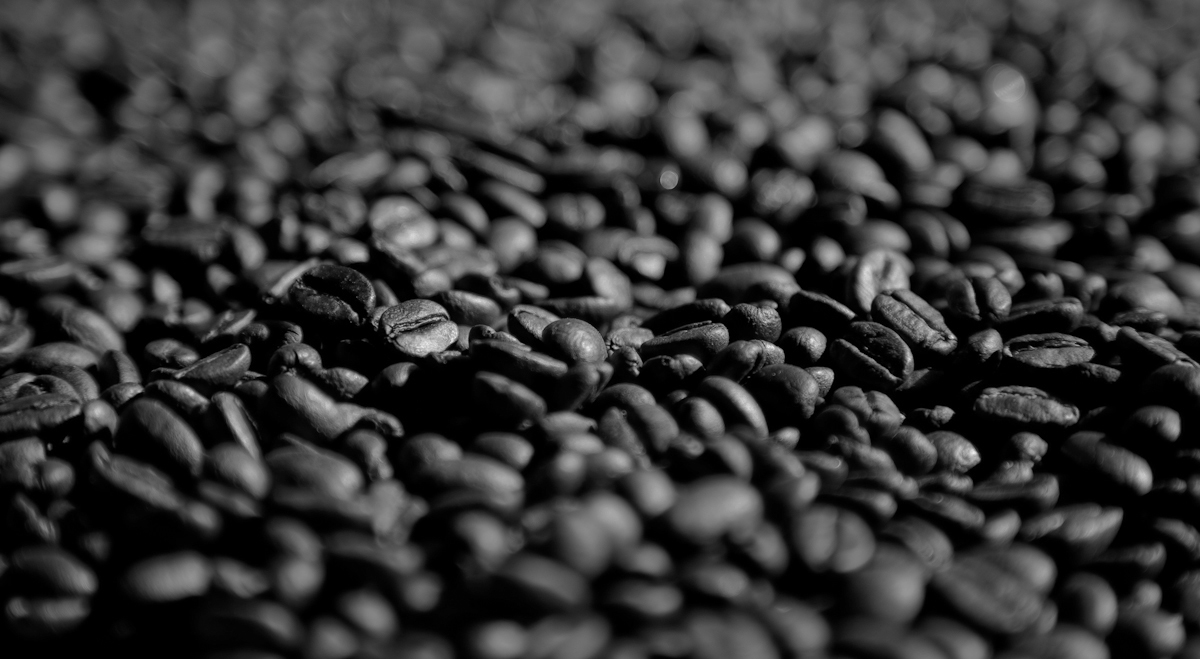
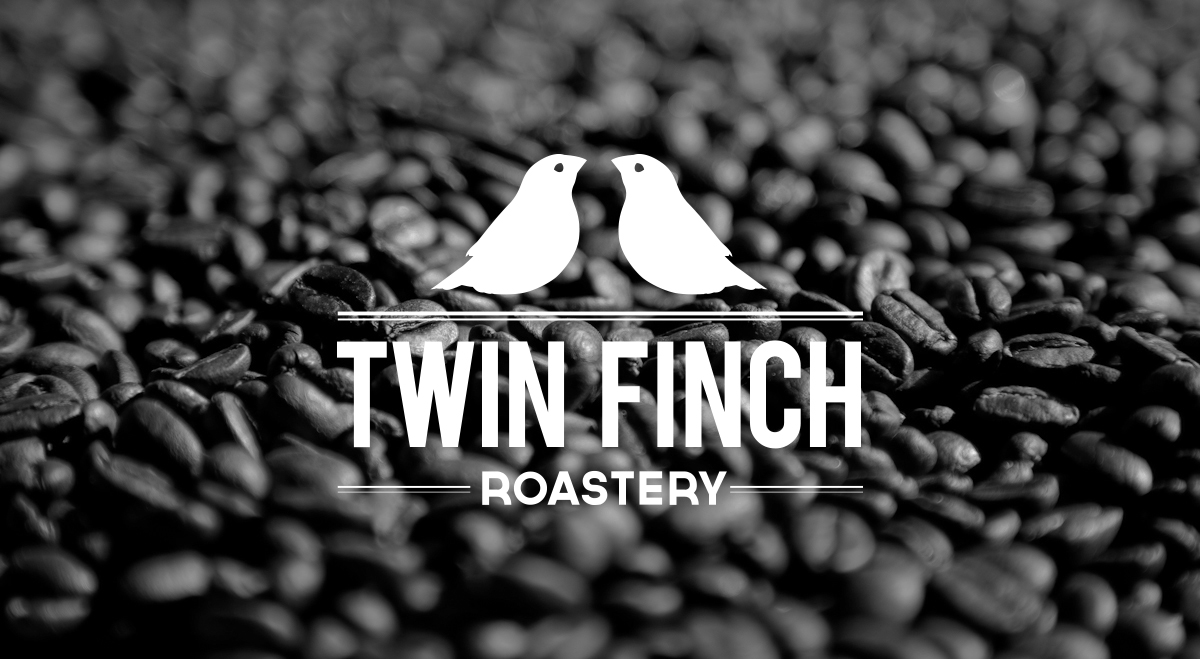
Twin Finch Site
Updated Styles and HTML

Changed region(s): [[0.2775, 0.5159, 0.74, 0.7891], [0.2775, 0.2124, 0.74, 0.4856]]

diff --git a/index.html b/index.html
@@ -22,17 +22,12 @@
   </div>
 </nav>
 
-
-
-
 <a id="home"></a>
-<div class="grid">
-<div class="hero"> 
-	<div class="column-3-12 centered">
-		<img src="images/twinfinch-white.svg" alt="twin finch logo">
-	</div>
+
+<div class="hero-space">
+	<img src="images/hero-image.jpg">
 </div>
-</div>
+	
 
 <div class="grid">
 <div class="home">
@@ -59,7 +54,7 @@
     </div>
     
     <div class="column-5-12">
-    	<h2>Seasonal Feature: Evening Oak</h2>
+    	<h2>Seasonal Feature:<br>Evening Oak</h2>
     		<p>Type: Medium-Dark</p>
     		<p>Origin: Eastern Java, Indonesia</p>
     		<p>Our featured roast of the season. Pungently rich and complex with hints of night-blooming flowers and coriander in aroma and cup.</p>
@@ -92,7 +87,7 @@
     </div>
     
     <div class="column-5-12 offset-5-12">
-    	<div class="review">
+    	<div class="review mobile-hidden">
         	<p>“This extraordinary coffee almost defies description with its aromatic complexity while retaining a classic clarity of structure.”<br> - Coffee Review</p>
         </div>
     </div>
@@ -248,6 +243,7 @@
             </div>
         
         <div class="column-12-12">
+        <div class="contact-form">
             <form>
                 <input type="email" placeholder="Email">        
             </form>
@@ -259,6 +255,7 @@
             </form>
     	</div>
     </div>
+    </div>
     <div class="column-2-12">
     	<button>Send</button>
     </div>
@@ -267,7 +264,7 @@
     
 <!--social icons-->
 	<div class="column-1-12">
-    	<div class="social-icons column-mobile">
+    	<div class="social-icons">
             <a href=""><img src="images/twitter-icon.svg" alt="twitter icon"></a>
             <a href=""><img src="images/facebook-icon.svg" alt="facebook icon"></a>
             <a href=""><img src="images/googleplus-icon.svg" alt="google plus icon icon"></a>
@@ -315,40 +312,39 @@
 <div class="grid">
 <footer>
     
-    
     <div class="column-4-12">
     	<div class="mobile-hidden">
-            	<form>
-        			<input type="email" placeholder="Email">
-                	<button>Subscribe</button> 
-                </form> 		
+        	<img src="images/location-map.jpg" alt="location map">
         </div>
-        
-        <a href="">How To Brew Article &raquo;</a> 
-        
-        <div class="location-info">
-        	<h2>Visit us!</h2>
+    </div>
+    
+    <div class="column-4-12">        
+        <div class="location-info column-mobile">
                 <p>457 NW Market Street</p>
                 <p>Seattle, Washington</p>
                 <p>(800)555-1234</p>
+                <button>Directions</button>
         </div>
     </div>
     
     <div class="column-4-12">
-    	<img src="images/location-map.jpg" alt="location map">
+            <img src="images/twinfinch-teal.svg" alt="twin finch logo">
+         <div class="mobile-hidden">
+         		<form>
+        			<input type="email" placeholder="Email">
+                	<button>Subscribe</button> 
+                </form> 	
+                <a href="">How To Brew Article &raquo;</a> 	
+        </div> <!--logo-->
     </div>
-    
-    <div class="column-4-12">
-        <div class="logo mobile-hidden">
-            <img src="images/twinfinch-teal.svg" alt="twin finch logo"> <!--logo-->
-        </div>
-    </div>
+</div>
     
     <div class="column-12-12">
     	<div class="copyright mobile-hidden">
     		<p>&copy; Copyright 2014</p>
     	</div>
     </div>
+    
 </footer>
 </div> <!--end of grid-->
 </div> <!--end of wrapper-->       

diff --git a/styles/styles.css b/styles/styles.css
@@ -71,20 +71,6 @@ h2 {
 img {
 	width:100%;
 }
-
-.hero {
-  width:100%;
-  padding-top: 60px;
-  height: 500px; background:url(../images/hero-image.jpg) no-repeat;
-  background-size:100%;
-  background-position:center;
-  
-}
-
-.hero img {
-	width: 250px;
-	margin-top: 150px;
-}
  
 nav {
   	overflow: auto;
@@ -132,13 +118,9 @@ nav a {
 	text-align: center;
 }
 
-.recognition p {
-	font-size: 14px;
-	color: #DDC069;
-}
-
 .products {
-	padding-top: 30px;
+	padding-top: 50px;
+	padding-bottom: 50px;
 }
 
 .products p {
@@ -212,20 +194,22 @@ nav a {
 
 .review p {
 	font-family: 'Open-sans', sans-serif;
-	font-size: 18px;
+	font-size: 16px;
 	color: #DDC069;
 	padding-top: 35px;
-	font-weight: 500;
+	font-weight: 600;
 }
 
 .order-buttons {
 	padding-left: 15px;
 	padding-top: 30px;
 	padding-bottom: 40px;
+	margin-bottom: 50px;
 }
 
 .about {
 	padding-bottom: 50px;
+	padding-top: 50px;
 }
 
 .about p {
@@ -319,6 +303,10 @@ textarea {
 	font-size: 12px;
 }
 
+footer {
+	padding-top: 40px;
+}
+
 footer li {
 	list-style: none;
 }
@@ -329,17 +317,10 @@ footer p {
 }
 
 footer form {
-	padding-left: 10px;
-	padding-top: 10px;
-	padding-bottom: 90px;
+	padding-left: 60px;
+	padding-top: 20px;
+	padding-bottom: 20px;
 }
-
-
-footer h2 {
-	padding-top: 40px;
-}
-
-
 
 footer input {
 	font-family: 'open-sans', sans-serif;
@@ -371,11 +352,19 @@ footer a {
 	font-size: 14px;
 	color: #ddc069;
 	text-decoration: none;
-	padding-left: 10px;
+	padding-left: 60px;
 }
 
 footer a:hover {
 	color: #3e1d12;
+}
+
+.location-info {
+	padding-top: 200px;
+}
+
+.location-info button {
+	margin-left: 10px;
 }
 
 .copyright p {
@@ -483,8 +472,12 @@ footer a:hover {
 	
 	.wrapper {
 		/*used to center the mobile website*/
-		max-width: 500px;
+		max-width: 100%;
 		margin: 0 auto;
+	}
+	
+	body img {
+		max-width: 500px;
 	}
 	
 	.column-mobile{
@@ -493,6 +486,17 @@ footer a:hover {
 	
 	nav {
 		display: inline;
+	}
+	
+	.hero-space img {
+		margin-top: 50px;
+		margin-bottom: 0 auto;
+	}
+	
+	.home p {
+		font-size: 14px;
+		line-height: 24px;
+		padding: 10px;
 	}
 	
 	textarea {
@@ -507,19 +511,68 @@ footer a:hover {
 		padding-left: 90px;
 	}
 	
-	.products img {
-		padding-left: 0;
-	}
-	
 	.products input {
 		margin-top: 20px;
 		margin-bottom: 10px;
 	}
 	
-	.social-icons img {
-		width: 40px;
-		padding-bottom: 30px;
+	.featured-flavor h2 {
+		padding-left: 45px;
 	}
+	
+	.featured-flavor p {
+		padding-left: 45px;
+		padding-right: 45px;
+	}
+	
+	.review {
+		padding-left: 45px;
+		padding-right: 45px;
+	}
+	
+	.flavors p {
+		padding-right: 45px;
+	}
+
+	
+	.featured-flavor .order-buttons {
+		padding-left: 55px;
+	}
+	
+	.about p {
+		font-size: 14px;
+		line-height: 24px;
+		padding: 10px;
+	}
+	
+	.contact input, textarea {
+		width: 350px;
+		margin-left: 20px;
+		margin-right: 20px;
+	}
+	
+	.contact button {
+		margin-left: 20px;
+		margin-top: 20px;
+	}
+	
+	.social-icons img {
+		width: 60px;
+		margin-left: 30px;
+		margin-top: -20px;
+	}
+	
+	.location-info {
+		margin-top: -180px;
+	}
+	
+	footer img {
+		margin-top: -110px;
+		margin-bottom: 10px;
+		float: right;
+		width: 50%;
+	}
+	
 	
 }
 /* CSS Document */
